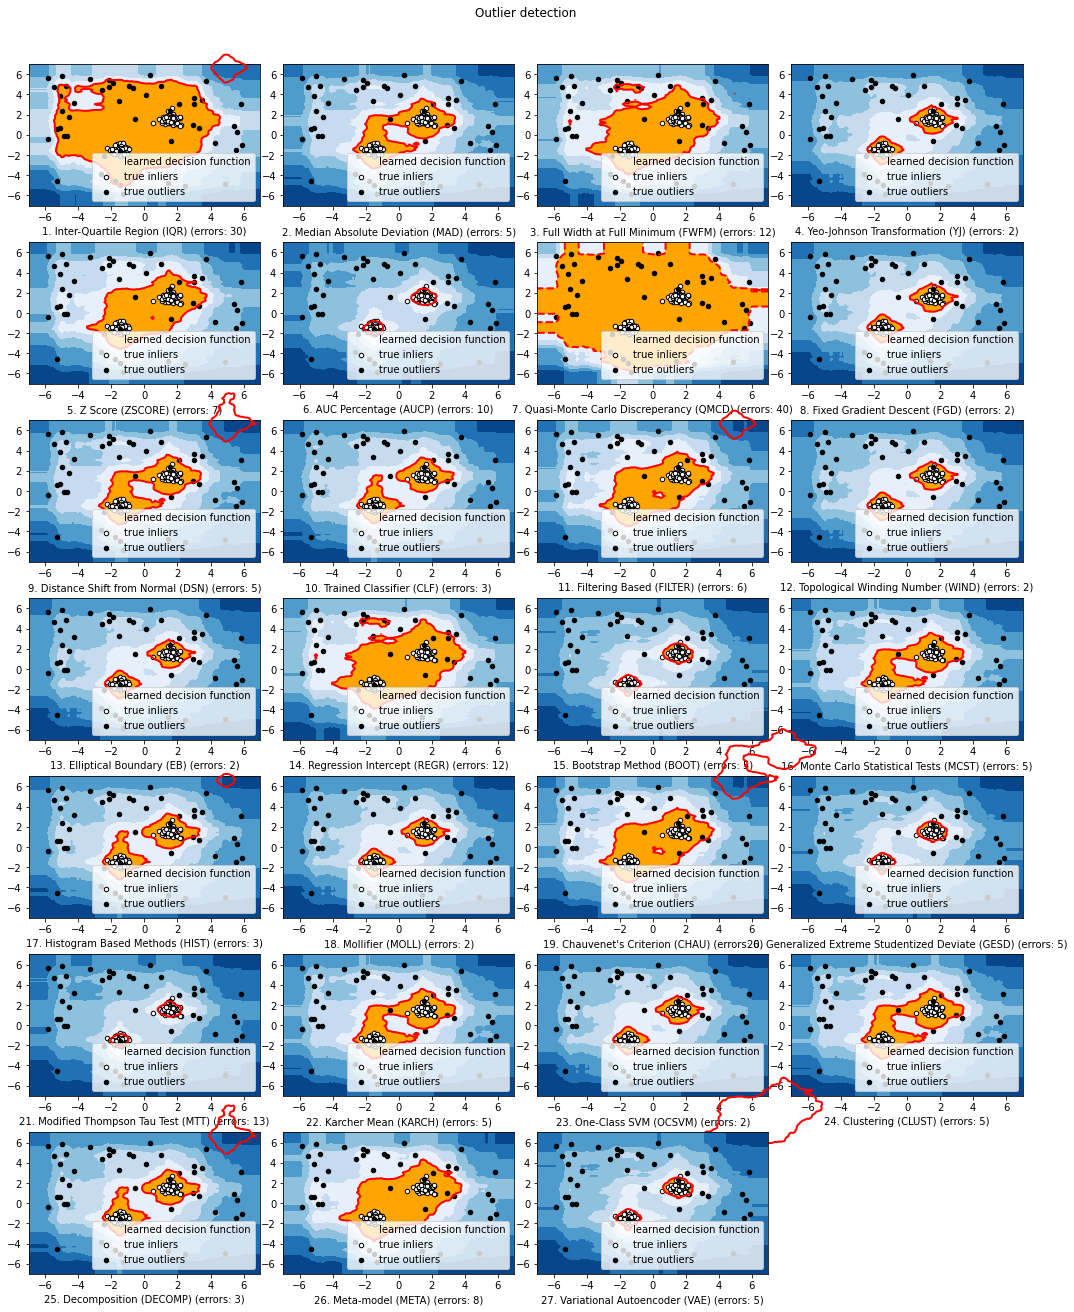
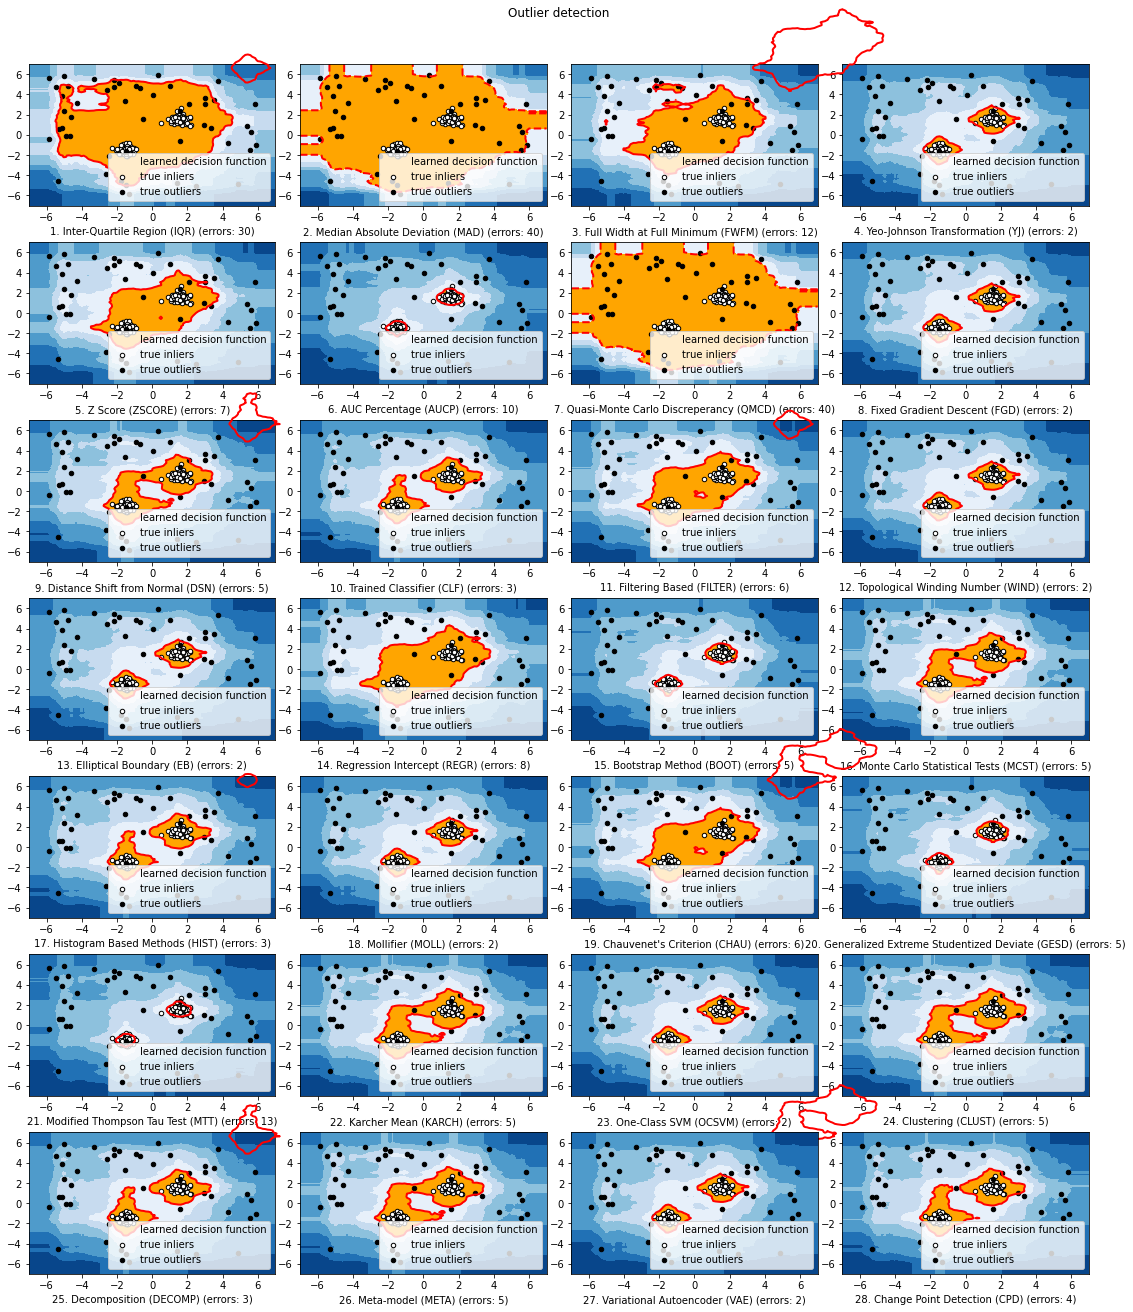
Update threshold figure

Changed region(s): [[0.0, 0.0, 0.9832, 1.0], [0.0, 0.0625, 0.0922, 0.1562]]

diff --git a/docs/pythresh.thresholds.rst b/docs/pythresh.thresholds.rst
@@ -62,6 +62,16 @@ pythresh.thresholds.clust module
     :show-inheritance:
     :inherited-members:
 
+pythresh.thresholds.cpd module
+------------------------------
+
+.. automodule:: pythresh.thresholds.cpd
+    :members:
+    :exclude-members:
+    :undoc-members:
+    :show-inheritance:
+    :inherited-members:
+
 pythresh.thresholds.decomp module
 ---------------------------------
 
